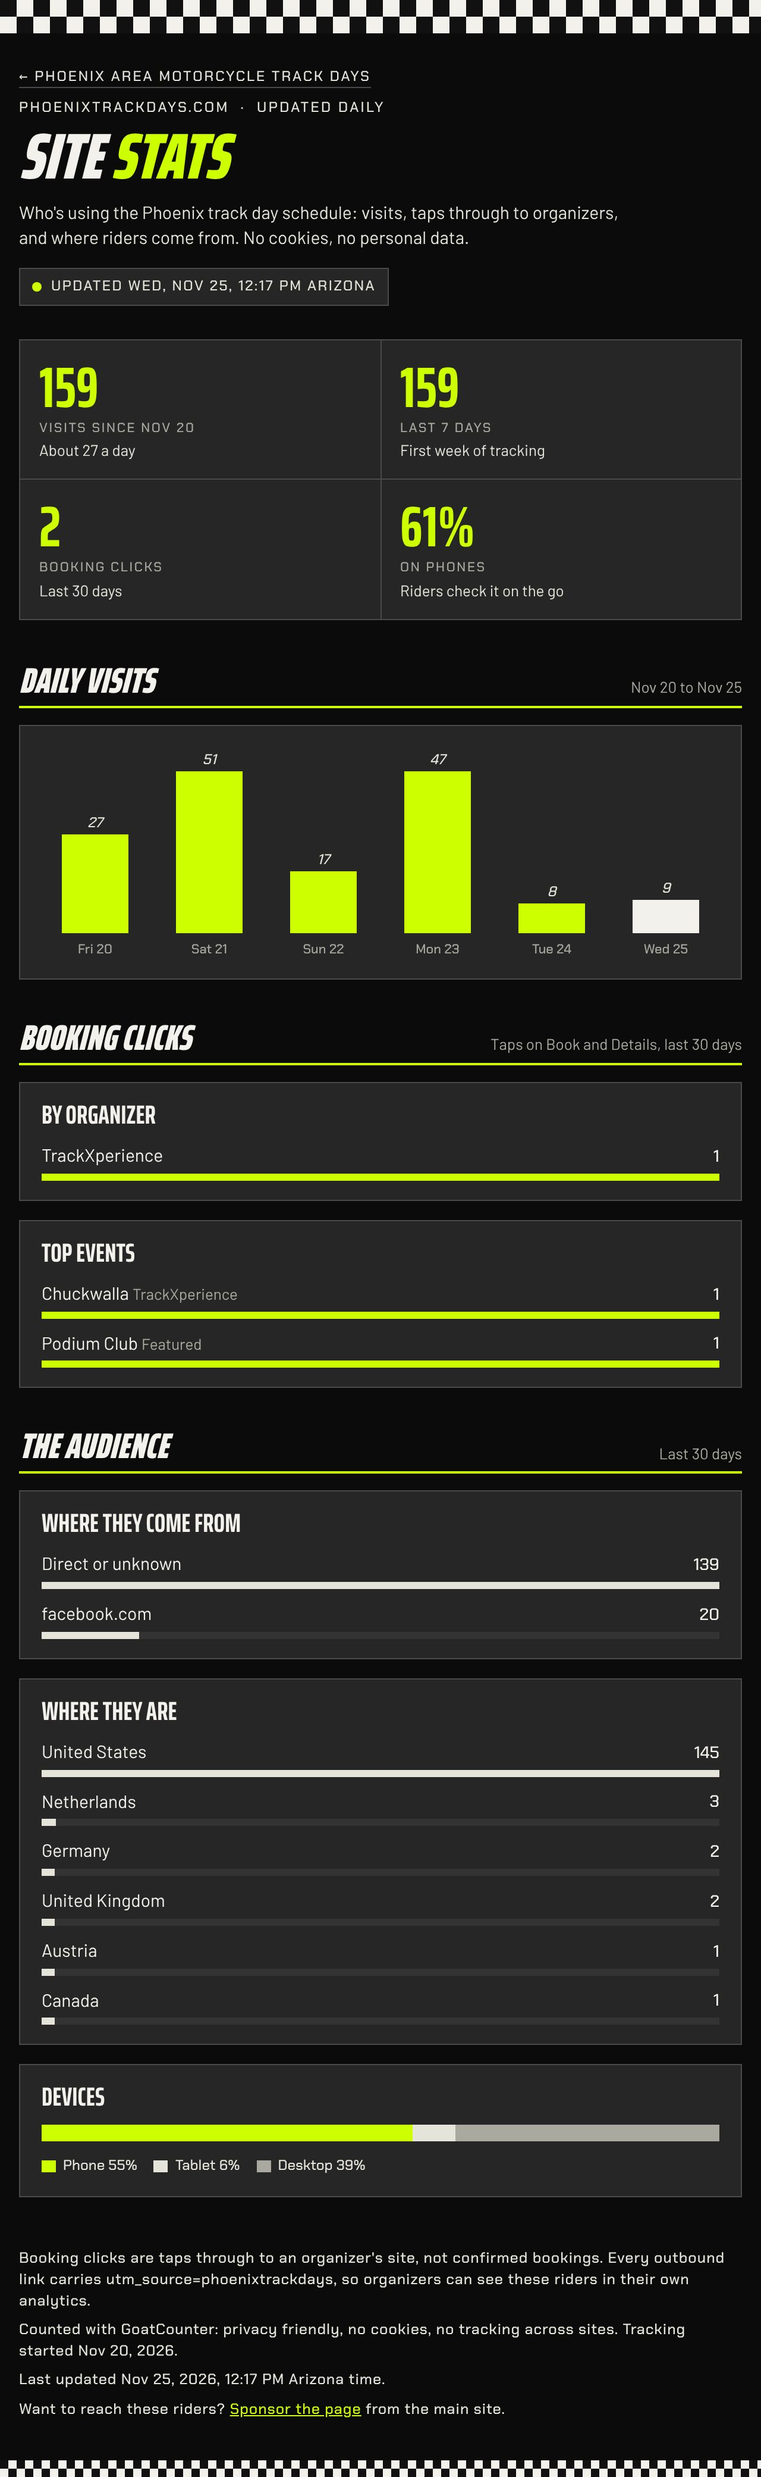
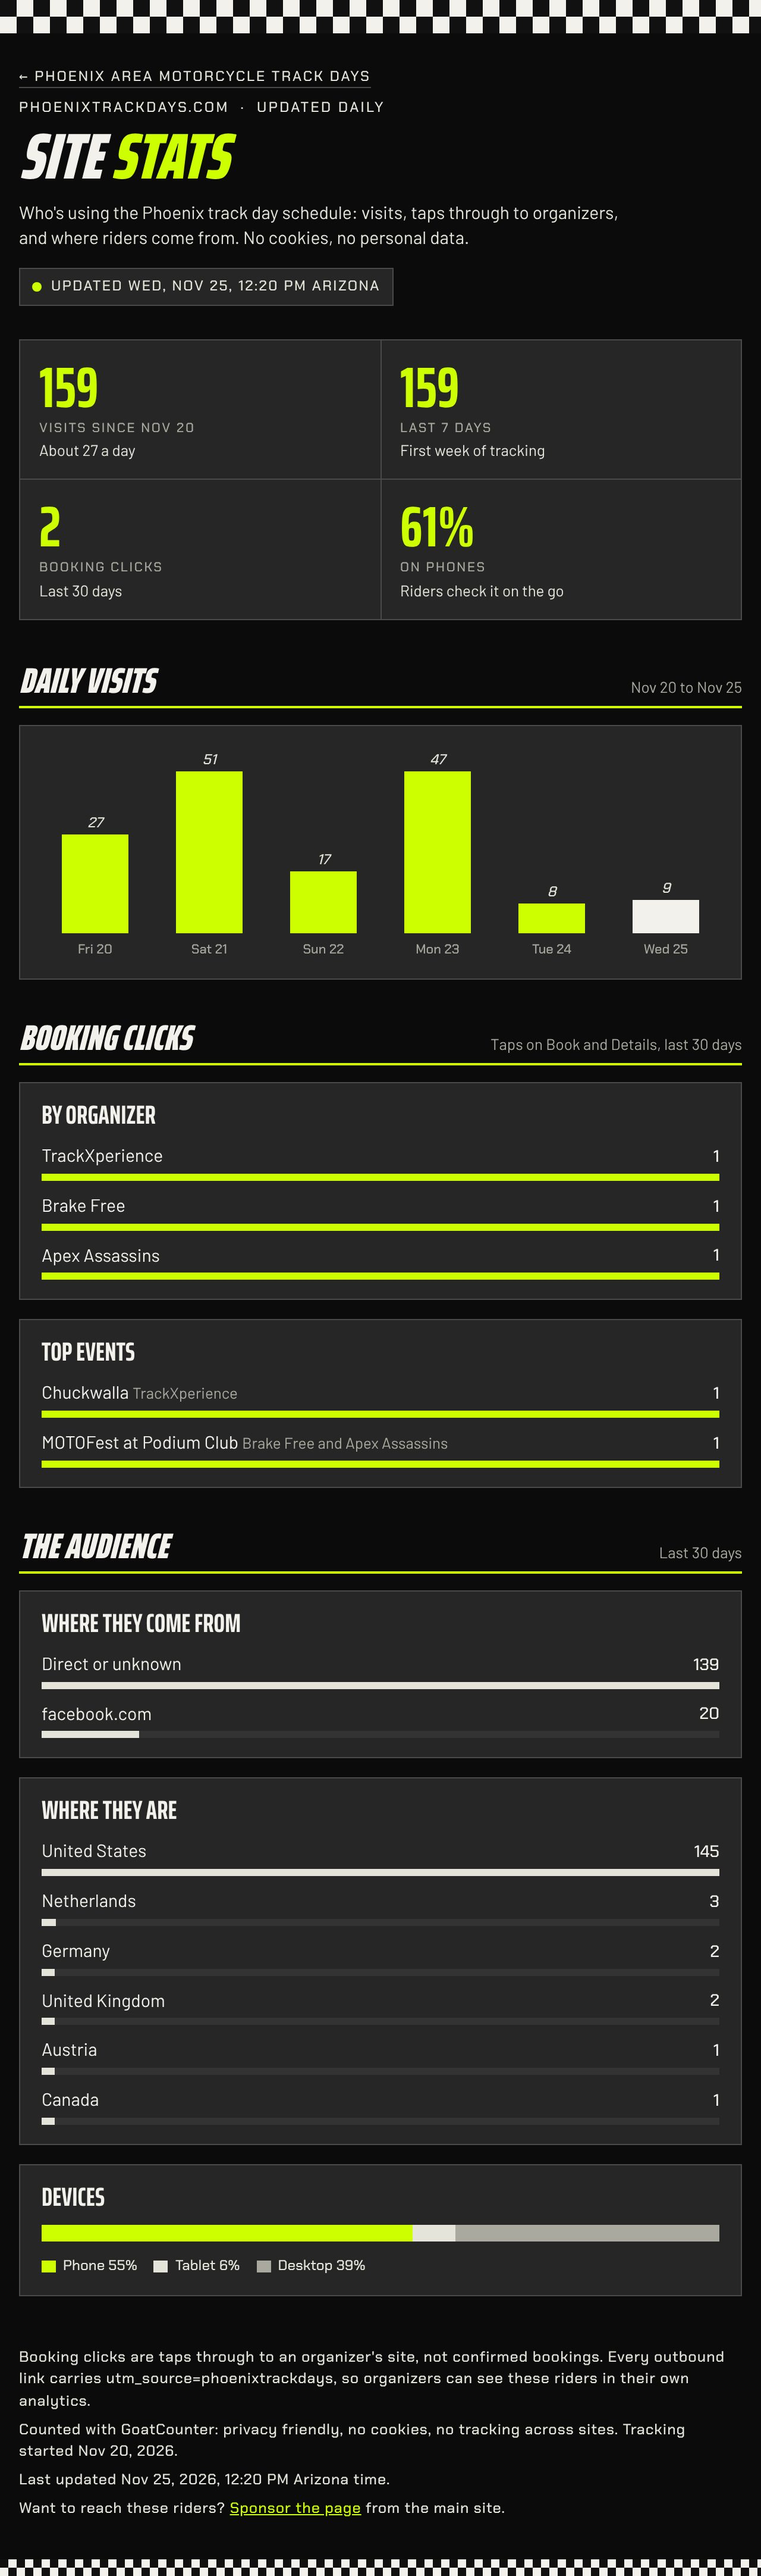
Analytics: credit every organizer of a featured event
Claude-Session: https://claude.ai/code/session_017cfLCiELQSZX7XKxvxYSdj

Changed region(s): [[0.0, 0.0312, 1.0, 0.9995], [0.7188, 0.0625, 0.7812, 0.0937]]

diff --git a/stats.js b/stats.js
@@ -7,6 +7,8 @@ const TOKEN = process.env.GC_TOKEN;
 if (!TOKEN) { console.error("GC_TOKEN is not set"); process.exit(1); }
 const BASE = "https://phoenixtrackdays.goatcounter.com/api/v0";
 const LAUNCH = "2026-11-20";
+global.window = {}; require("./data.js");
+const EV = window.EVENTS || [], TR = window.TRACKS || {}, FEAT = window.FEATURED || [];
 
 const sleep = ms => new Promise(r => setTimeout(r, ms));
 async function api(p) {
@@ -42,11 +44,28 @@ const merge = rows => { const m = new Map(); rows.forEach(([k, n]) => m.set(k, (
   const kind = p => p.startsWith("book: ") ? "book" : p.startsWith("featured: ") ? "featured" : p.startsWith("org: ") ? "org" : "other";
   const sum = k => ev.filter(h => kind(h.path) === k).reduce((a, h) => a + h.count, 0);
   const booking = ev.filter(h => ["book", "featured"].includes(kind(h.path)));
-  const byOrg = merge(ev.filter(h => kind(h.path) === "book").map(h => [h.path.slice(6).split(" · ")[0], h.count]));
-  const top = booking.sort((a, b) => b.count - a.count).slice(0, 8).map(h => {
-    const p = h.path.replace(/^(book|featured): /, ""), parts = p.split(" · ");
-    return { org: parts.length > 1 ? parts[0] : "Featured", track: parts[parts.length - 1], n: h.count };
-  });
+  // Resolve each click to its event in data.js so featured events credit every organizer.
+  // Paths: "book: <org> · <track>", "featured: <track>" (old) or "featured: <name> · <track>"; titles add " · <date>".
+  const info = h => {
+    const k = kind(h.path), parts = h.path.replace(/^(book|featured): /, "").split(" · ");
+    const date = ((h.title || "").match(/(\d{4}-\d{2}-\d{2})$/) || [])[1];
+    const track = parts[parts.length - 1], first = parts.length > 1 ? parts[0] : null;
+    const org = k === "book" ? first : null, named = k === "featured" ? first : null;
+    const e = date && EV.find(x => x.d === date && (TR[x.t] || {}).name === track && (!org || x.org === org)
+      && (!named || (x.note || "").startsWith(named)));
+    const feat = (e && FEAT.find(n => (e.note || "").startsWith(n))) || named;
+    let orgs = org ? [org] : [];
+    if (e && feat) { const m = e.note.slice(feat.length).match(/\bwith (.+?)(?:[.;]|$)/);
+      const co = m ? m[1].split(/,\s*(?:and\s+)?|\s+and\s+|\s*&\s*/).map(x => x.trim()).filter(Boolean) : [];
+      orgs = [e.org, ...co.filter(o => o !== e.org)]; }
+    else if (e && !orgs.length) orgs = [e.org];
+    return { track, feat, orgs, n: h.count };
+  };
+  const and = a => a.length < 2 ? (a[0] || "") : a.slice(0, -1).join(", ") + " and " + a[a.length - 1];
+  const resolved = booking.map(info);
+  const byOrg = merge(resolved.flatMap(r => (r.orgs.length ? r.orgs : ["Unknown"]).map(o => [o, r.n])));
+  const top = merge(resolved.map(r => [JSON.stringify([r.feat ? `${r.feat} at ${r.track}` : r.track, and(r.orgs) || (r.feat ? "Featured" : "")]), r.n]))
+    .slice(0, 8).map(([k, n]) => { const [track, org] = JSON.parse(k); return { org, track, n }; });
 
   const refs = await api(`stats/toprefs?${rng(s30, END)}&limit=20`);
   const refRows = merge((refs.stats || []).map(r => [r.name ? r.name.replace(/^www\./, "").replace(/^(l|m)\.facebook\.com$/, "facebook.com") : "Direct or unknown", r.count])).slice(0, 6);

diff --git a/index.html b/index.html
@@ -686,7 +686,8 @@ document.addEventListener("click", ev => { const a = ev.target.closest("a[data-g
   let path, title; const kind = a.dataset.gc;
   if (kind === "org") { path = "org: " + a.firstChild.textContent.trim(); title = path; }
   else { const box = a.closest("[data-k]"), k = ((box && box.dataset.k) || "|").split("|"), tr = T[k[1]] || {}, o = box && box.dataset.o;
-    path = (kind === "feat" ? "featured: " : "book: ") + (o ? o + " · " : "") + (tr.name || k[1]); title = path + " · " + k[0]; }
+    const fn = kind === "feat" && box && box.querySelector("h4") ? box.querySelector("h4").textContent.trim() : "";
+    path = (kind === "feat" ? "featured: " + (fn ? fn + " · " : "") : "book: ") + (o ? o + " · " : "") + (tr.name || k[1]); title = path + " · " + k[0]; }
   try { window.goatcounter.count({ path, title, event: true }); } catch (_) {} });
 function renderFeatured(){
   const f = upcoming.filter(e => e.feat), groups = [];
